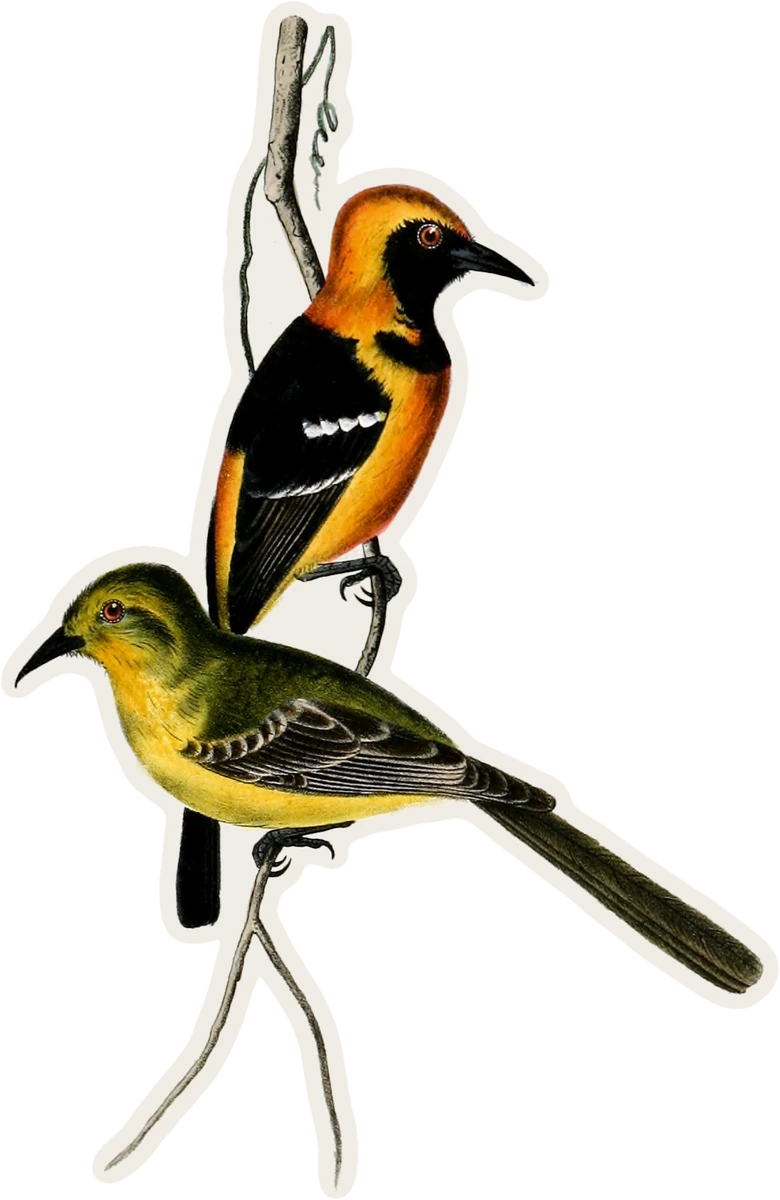
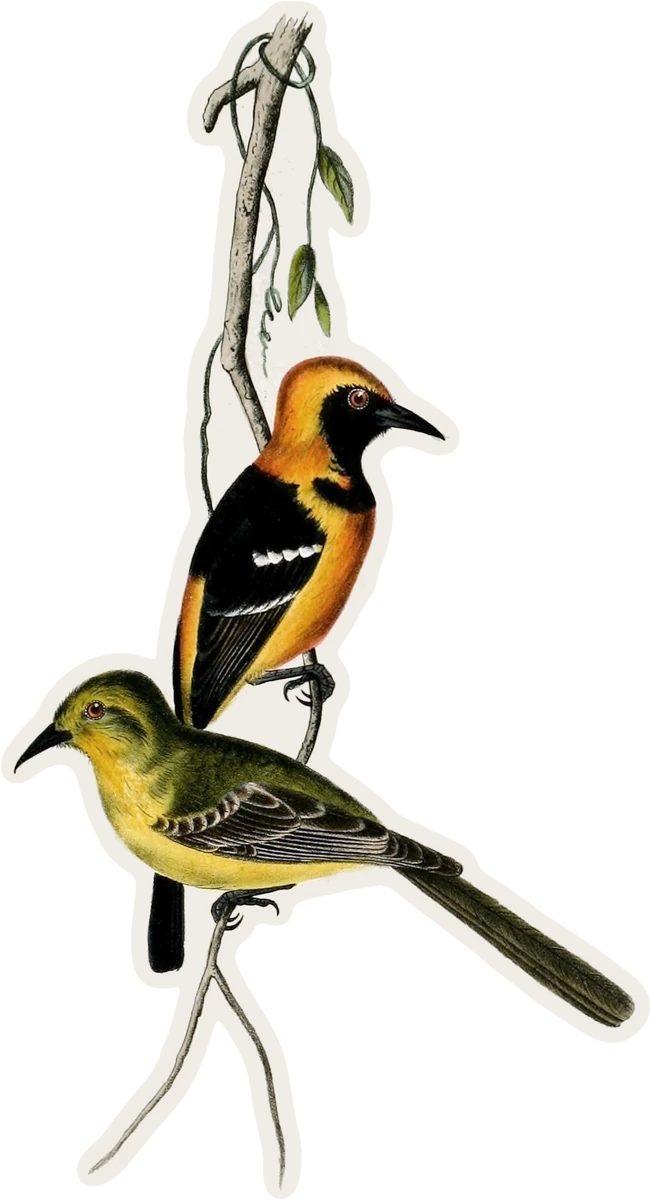
chore(assets): #33 recut the oriole, gull and vireo plates, drop the western gulls

diff --git a/assets/artwork/classic/ATTRIBUTION.md b/assets/artwork/classic/ATTRIBUTION.md
@@ -226,7 +226,7 @@ CC BY 2.0. Manifest key: `jardine`.
 
 **Baird** - *The Birds of North America* by **Spencer F. Baird**, **John Cassin** and **George N. Lawrence** (Philadelphia: J. B. Lippincott & Co., 1860), atlas of hand-coloured lithographs by **Bowen & Co.**, Smithsonian Libraries scan via the [Internet Archive](https://archive.org/details/birdsofnorthamer1860bair). Public domain (No Copyright - United States). Manifest key: `baird`.
 
-**Reed** - *The Bird Book* by **Chester A. Reed** (Worcester, Mass.: C. K. Reed, 1914). Prelinger Library scan via the [Internet Archive](https://archive.org/details/birdbookillustra00reedrich). Public domain (published in the US before 1929; Reed died 1912). Also *Color Key to North American Birds, with bibliographical appendix* by **Frank M. Chapman**, illustrated by **Chester A. Reed** (New York: D. Appleton & Company, 1912), University of California Libraries scan via the [Internet Archive](https://archive.org/details/colorkeytonortha00chaprich). Public domain (No Copyright - United States; Reed died 1912). Manifest key: `reed`.
+**Reed** - *The Bird Book* by **Chester A. Reed** (Worcester, Mass.: C. K. Reed, 1914). Prelinger Library scan via the [Internet Archive](https://archive.org/details/birdbookillustra00reedrich). Public domain (published in the US before 1929; Reed died 1912). Manifest key: `reed`.
 
 **Wolf** - plates drawn and lithographed by **Joseph Wolf** for the *Proceedings of the Zoological Society of London* (1851, printed by **M. & N. Hanhart**; 1852, printed by **Ford & West**), Natural History Museum Library scan via the [Biodiversity Heritage Library](https://www.biodiversitylibrary.org/item/96443) and the [Internet Archive](https://archive.org/details/proceedingsofgen51zool), and Wikimedia Commons, and Ernst Mayr Library, Museum of Comparative Zoology, Harvard University scan via the [Internet Archive](https://archive.org/details/proceedingsofzoo002zool); and for *The Ibis* (1868), printed by **M. & N. Hanhart**, from the Commons category [Ibis (1868)](https://commons.wikimedia.org/wiki/Category:Ibis_(1868)). Public domain (PD-old-100; Wolf died 1899). Manifest key: `wolf`.
 
@@ -261,5 +261,3 @@ CC BY 2.0. Manifest key: `jardine`.
 **Frohawk** - *Aves Hawaiienses: The Birds of the Sandwich Islands* by **Scott B. Wilson** and **A. H. Evans** (London: R. H. Porter, 1890-1899), plates by **Frederick William Frohawk** (1861-1946). Smithsonian Libraries scan via the [Internet Archive](https://archive.org/details/AvesHawaiienses00Wils). Public domain (PD-old-70-expired). Manifest key: `frohawk`.
 
 **Hardwicke** - *Illustrations of Indian Zoology* by **John Edward Gray** (1830-1835), from the collection of **Thomas Hardwicke**, lithographed by **Benjamin Waterhouse Hawkins** and printed by **W. Day**. Scans via the [Biodiversity Heritage Library](https://www.biodiversitylibrary.org/item/172892) and the [Internet Archive](https://archive.org/details/IllustrationsIn1Gray). Public domain. Manifest key: `hardwicke`.
-
-**Jasper** - *The birds of North America* by **Jacob Henry Studer**, illustrated by **Theodore Jasper** (New York: Natural Science Association of America, 1903), Smithsonian Libraries scan via the [Biodiversity Heritage Library / Internet Archive](https://archive.org/details/birdsNorthAmeri00Stud). Public domain (published in the US in 1903; Jasper died in 1897; library catalogue: Not in copyright). Manifest key: `jasper`.
